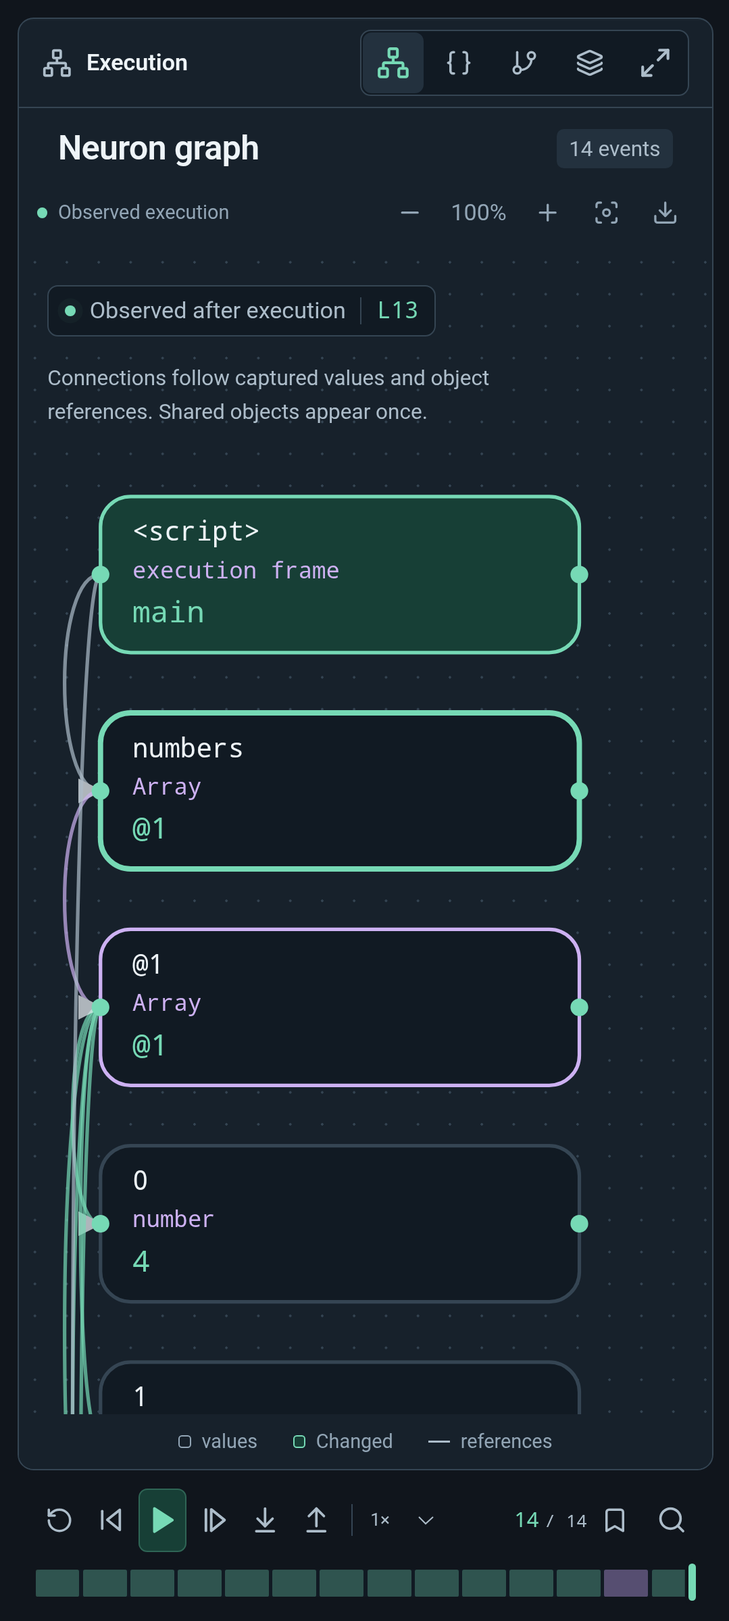
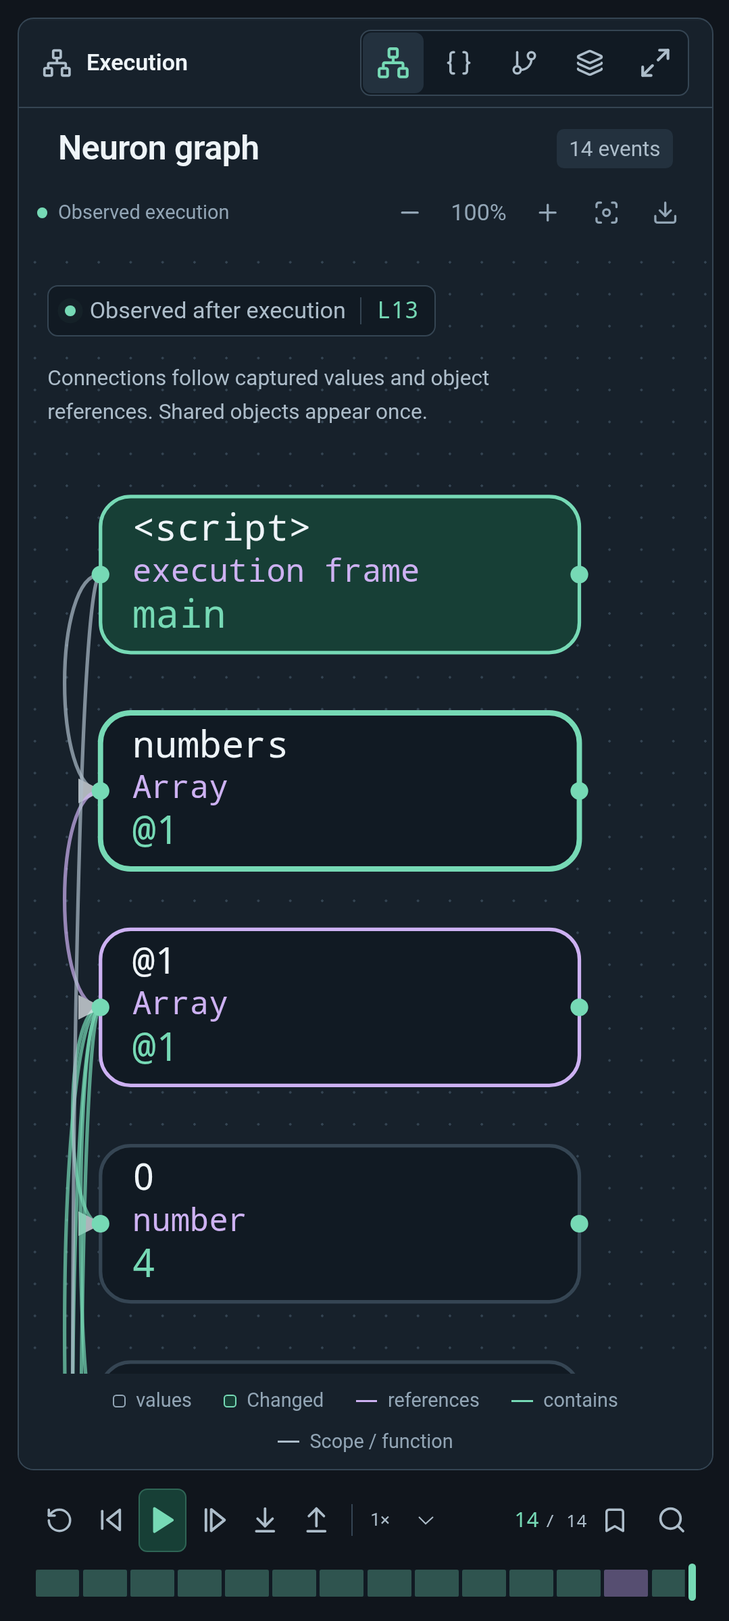
Improve diagram legibility and expose native aggregate fields

diff --git a/src/App.tsx b/src/App.tsx
@@ -32,7 +32,7 @@ export default function App(){
  const [selected,setSelected]=useState<{name:string;value:Value}|null>(null);const [pinned,setPinned]=useState(false);const [snapshot,setSnapshot]=useState(false);const [font,setFont]=useState(16);const [detail,setDetail]=useState(true);
  const [stdin,setStdin]=useState(initialProject?.config?.stdin||'');const [args,setArgs]=useState(JSON.stringify(initialProject?.config?.args||[]));const [profile,setProfile]=useState('x86-64');const [syntax,setSyntax]=useState('intel');const [mode,setMode]=useState('trace');const [build,setBuild]=useState('learn');
  const [runnerUrl,setRunnerUrl]=useState(stored('runnerUrl',''));const [token,setToken]=useState(()=>new URLSearchParams(location.hash.slice(1)).get('token')||sessionPreferences.getItem('token')||'');const [health,setHealth]=useState<{ok:boolean;trusted:boolean}|null>(null);
- const [breakpointCondition,setBreakpointCondition]=useState('');const [watch,setWatch]=useState('');const [breakpoints,setBreakpoints]=useState<number[]>([]);const [cursorLine,setCursorLine]=useState(1);const [bookmarks,setBookmarks]=useState<number[]>([]);const [search,setSearch]=useState('');const [fn,setFn]=useState('');const [thread,setThread]=useState('');
+ const [breakpointCondition,setBreakpointCondition]=useState(initialProject?.config?.breakpointCondition||'');const [watch,setWatch]=useState((initialProject?.config?.watch||[]).join(', '));const [breakpoints,setBreakpoints]=useState<number[]>(initialProject?.config?.breakpoints||[]);const [cursorLine,setCursorLine]=useState(1);const [bookmarks,setBookmarks]=useState<number[]>([]);const [search,setSearch]=useState('');const [fn,setFn]=useState('');const [thread,setThread]=useState('');
  const [elapsed,setElapsed]=useState(0);const [experiment,setExperiment]=useState<{n:number;ms:number;spread:number}[]>([]);const [experimentBusy,setExperimentBusy]=useState(false);
  const worker=useRef<Worker|null>(null);const iframe=useRef<HTMLIFrameElement>(null);const upload=useRef<HTMLInputElement>(null);const importFile=useRef<HTMLInputElement>(null);const runningId=useRef('');const generation=useRef(0);
  useEffect(()=>{loadSession().then(async saved=>{if(saved&&!traceRef.current&&!busyRef.current){await validateTrace(saved.trace);setTrace(saved.trace);setIndex(Math.min(saved.index,saved.trace.events.length-1));}}).catch(()=>{})},[]);
@@ -41,13 +41,14 @@ export default function App(){
  const local=['javascript','typescript','html','css'].includes(language);const isWeb=language==='html'||language==='css';const languageName=languages.find(l=>l.id===language)?.name||language;
  useEffect(()=>{document.documentElement.dataset.theme=theme;preferences.setItem('theme',theme)},[theme]);
  useEffect(()=>{document.documentElement.lang=locale;preferences.setItem('locale',locale)},[locale]);
- useEffect(()=>{const id=setTimeout(()=>{preferences.setItem('source',source);preferences.setItem('language',language);try{const project={schema:'tracescope-project/1',language,entry:entry||defaultFile(language),activeFile:activeFile||defaultFile(language),files:activeFile?{...files,[activeFile]:source}:{[defaultFile(language)]:source},config:{stdin,args:JSON.parse(args),env:JSON.parse(environment),mainClass}};preferences.setItem('tracescope-project',JSON.stringify(validateProject(project)))}catch{/* Incomplete JSON settings remain editable; explicit project export reports validation. */}},300);return()=>clearTimeout(id)},[source,language,files,entry,activeFile,stdin,args,environment,mainClass]);
+ useEffect(()=>{const id=setTimeout(()=>{preferences.setItem('source',source);preferences.setItem('language',language);try{const project={schema:'tracescope-project/1',language,entry:entry||defaultFile(language),activeFile:activeFile||defaultFile(language),files:activeFile?{...files,[activeFile]:source}:{[defaultFile(language)]:source},config:{stdin,args:JSON.parse(args),env:JSON.parse(environment),mainClass,breakpointCondition,watch:watch.split(',').map(s=>s.trim()).filter(Boolean),breakpoints}};preferences.setItem('tracescope-project',JSON.stringify(validateProject(project)))}catch{/* Incomplete JSON settings remain editable; explicit project export reports validation. */}},300);return()=>clearTimeout(id)},[source,language,files,entry,activeFile,stdin,args,environment,mainClass,breakpointCondition,watch,breakpoints]);
  useEffect(()=>{sessionPreferences.setItem('token',token);preferences.setItem('runnerUrl',runnerUrl);if(location.hash)history.replaceState(null,'',location.pathname+location.search);fetch((runnerUrl||'')+'/api/health').then(r=>r.json()).then(setHealth).catch(()=>setHealth(null))},[runnerUrl,token]);
  useEffect(()=>{if(!busy)return;const start=performance.now();const id=setInterval(()=>setElapsed((performance.now()-start)/1000),100);return()=>clearInterval(id)},[busy]);
  useEffect(()=>{if(!playing||!trace)return;const timer=setInterval(()=>setIndex(i=>{if(i>=trace.events.length-1){setPlaying(false);return i}const next=i+1;if(breakpoints.includes(trace.events[next].line))setPlaying(false);return next}),700/speed);return()=>clearInterval(timer)},[playing,speed,trace?.events.length,breakpoints]);
  useEffect(()=>{if(pinned||!event)return;const entry=Object.entries(event.delta.set).find(([name])=>!name.startsWith('__'))||Object.entries(event.values)[0];if(entry)setSelected({name:entry[0],value:entry[1]})},[index,trace?.runId]);
  async function api(path:string,data?:unknown){if(runnerUrl&&!runnerUrl.startsWith('https://')&&!/^http:\/\/(localhost|127\.0\.0\.1)(:|\/|$)/.test(runnerUrl))throw Error('Remote pairing requires HTTPS');const response=await fetch((runnerUrl||'')+path,{method:data===undefined?'GET':'POST',headers:{Authorization:'Bearer '+token,...(data===undefined?{}:{'Content-Type':'application/json'})},body:data===undefined?undefined:JSON.stringify(data)});const body=await response.json();if(!response.ok)throw Error(body.error||response.statusText);return body}
- function switchLanguage(next:Language){setFiles({});setActiveFile('');setEntry('');setLanguage(next);setSource(examples[next]);setBreakpoints([]);setSnapshot(false);setError('');setDialog('')}
+ function exportProject(){try{const project=validateProject({schema:'tracescope-project/1',language,entry:entry||activeFile,files:{...files,[activeFile]:source},config:{stdin,args:JSON.parse(args),env:JSON.parse(environment),mainClass,breakpointCondition,watch:watch.split(',').map(s=>s.trim()).filter(Boolean),breakpoints}});download('tracescope-project.json',JSON.stringify(project,null,2))}catch(error){setError(String(error))}}
+ function switchLanguage(next:Language){setFiles({});setActiveFile('');setEntry('');setLanguage(next);setSource(examples[next]);setBreakpoints([]);setBreakpointCondition('');setWatch('');setSnapshot(false);setError('');setDialog('')}
  function runWasm(text:string,lang:Language,input:string,benchmark:boolean,batch?:(t:Trace)=>void,projectFiles:Record<string,string>={},projectEntry=defaultFile(lang)):Promise<Trace>{return new Promise((resolve,reject)=>{const w=new Worker(new URL('./wasm/worker.ts',import.meta.url),{type:'module'});worker.current=w;w.onmessage=e=>{if(e.data.batch)batch?.(e.data.batch);else{w.terminate();worker.current=null;if(e.data.error)reject(Error(e.data.error));else resolve(e.data.trace)}};w.onerror=e=>{w.terminate();reject(Error(e.message))};w.postMessage({source:text,language:lang,stdin:input,benchmark,files:projectFiles,entry:projectEntry})})}
  async function run(){if(busy)return;if(!local&&!health?.ok){setError(t('runnerNeeded'));setDialog('settings');return;}const gen=++generation.current;setBusy(true);setPlaying(false);setError('');setIndex(0);setSelected(null);setSnapshot(false);setElapsed(0);setMobile('diagram');setBookmarks([]);
   try{let result:Trace;const runFiles={...files,...(activeFile?{[activeFile]:source}:{})};const runEntry=entry||activeFile||defaultFile(language);const runSource=runFiles[runEntry]??source;
@@ -76,7 +77,7 @@ export default function App(){
   <main className={'workbench mobile-'+mobile} style={{'--source-width':panelSizes.source+'%','--inspect-width':panelSizes.inspect+'%','--bottom-height':panelSizes.bottom+'px'} as React.CSSProperties}>
    <section className="source-panel panel"><div className="panel-resizer right" role="separator" aria-label={t('resize')} onPointerDown={e=>resizePanel('source',e)}/><div className="panel-header"><span><FileCode2 size={16}/>{t('source')}</span><div><button title={t('import')} onClick={()=>upload.current?.click()}><Upload size={15}/></button><button title={t('save')} onClick={()=>download((language==='java'||language==='kotlin'?'Main':'main')+'.'+(languages.find(l=>l.id===language)?.extension||'txt'),source,'text/plain')}><Download size={15}/></button></div></div>
     <div className="file-tabs"><div><Code2 size={15}/><span>{snapshot?(event?.file||trace?.filename):(activeFile||defaultFile(language))}</span>{stale&&<i/>}</div><select aria-label={t('language')} value={language} onChange={e=>switchLanguage(e.target.value as Language)}>{languages.map(l=><option key={l.id} value={l.id}>{l.name}</option>)}</select></div>
-    {!!Object.keys(files).length&&<div className="project-tabs">{Object.keys(files).map(name=><button key={name} className={name===activeFile?'active':''} onClick={()=>{setActiveFile(name);setSource(files[name]);setSnapshot(false)}}>{name}{name===entry?' ▶':''}</button>)}<button title={t('saveProject')} onClick={()=>download('tracescope-project.json',JSON.stringify({schema:'tracescope-project/1',language,entry:entry||activeFile,files,config:{stdin,args:JSON.parse(args),env:JSON.parse(environment),...(mainClass?{mainClass}:{})}},null,2))}><Download size={15}/></button></div>}
+    {!!Object.keys(files).length&&<div className="project-tabs">{Object.keys(files).map(name=><button key={name} className={name===activeFile?'active':''} onClick={()=>{setActiveFile(name);setSource(files[name]);setSnapshot(false)}}>{name}{name===entry?' ▶':''}</button>)}<button title={t('saveProject')} onClick={exportProject}><Download size={15}/></button></div>}
     {stale&&<div className="stale-note">{t('staleTrace')} · {trace?.language}</div>}{(stale||Object.keys(files).length>1)&&<button className="stale-banner" onClick={()=>setSnapshot(s=>!s)}><AlertCircle size={13}/>{snapshot?t('viewEditor'):t('viewSnapshot')}</button>}
     <Editor source={snapshot&&trace?(trace.sources?.[event?.file||trace.filename]??trace.source):source} language={fileLanguage(editorFile,snapshot&&trace?trace.language:language)} line={(stale&&!snapshot)||(!snapshot&&event?.file&&event.file!==(activeFile||defaultFile(language)))?0:event?.line||0} readonly={snapshot} onChange={s=>{if(!snapshot)setSource(s)}} onCursor={setCursorLine} breakpoints={breakpoints} onBreakpoint={n=>setBreakpoints(b=>b.includes(n)?b.filter(v=>v!==n):[...b,n])} font={font}/>
     <div className="editor-footer"><span>UTF-8</span><span>{cursorLine}:1</span><button onClick={()=>setDialog('settings')}>{t('stdin')} <b>{stdin.length?'●':'○'}</b></button></div>
@@ -105,7 +106,7 @@ export default function App(){
   </section>
   <footer className="status-bar"><button onClick={()=>setDialog('settings')}><span className={'status-dot '+(!health?'offline':'')}/>{health?(health.trusted?t('trusted'):t('locked')):t('offline')}</button><span>{event?event.kind+' · '+(event.phaseOverride==='after'||event.phase==='observed'?t('after'):t('before')):t('keyboard')}</span><span>TraceScope 0.2 <i>·</i> {t('notComplete')}</span></footer>
   <nav className="mobile-nav">{[ ['source',Code2,'mobileSource'],['diagram',Network,'mobileDiagram'],['inspect',PanelRight,'mobileInspect'],['output',Terminal,'mobileOutput']].map(([id,Icon,key])=>{const I=Icon as typeof Code2;return <button key={String(id)} className={mobile===id?'active':''} onClick={()=>setMobile(String(id))}><I size={20}/><span>{t(key as Key)}</span></button>})}</nav>
-  <input ref={upload} type="file" hidden multiple accept=".py,.js,.ts,.java,.kt,.c,.cpp,.h,.hpp,.rs,.html,.css,.s,.asm,.json" onChange={async e=>{try{const incoming=Array.from(e.target.files||[]);if(incoming.length>64||incoming.reduce((n,f)=>n+f.size,0)>1e6)throw Error('Project file quota');if(incoming.length===1&&incoming[0].name.endsWith('.json')){const project=validateProject(JSON.parse(await incoming[0].text()));setFiles(project.files);setEntry(project.entry);setActiveFile(project.entry);setLanguage(project.language);setSource(project.files[project.entry]);setStdin(project.config?.stdin||'');setArgs(JSON.stringify(project.config?.args||[]));setEnvironment(JSON.stringify(project.config?.env||{}));setMainClass(project.config?.mainClass||'');}else if(incoming.length){const items=Object.fromEntries(await Promise.all(incoming.map(async f=>[f.name,await f.text()])));const first=incoming.find(f=>/^(main|index)\./i.test(f.name))||incoming[0];const l=languages.find(l=>l.extension===first.name.split('.').pop());if(l)setLanguage(l.id);setFiles(items);setEntry(first.name);setActiveFile(first.name);setSource(items[first.name]);}setSnapshot(false)}catch(error){setError(String(error))}e.target.value=''}}/>
+  <input ref={upload} type="file" hidden multiple accept=".py,.js,.ts,.java,.kt,.c,.cpp,.h,.hpp,.rs,.html,.css,.s,.asm,.json" onChange={async e=>{try{const incoming=Array.from(e.target.files||[]);if(incoming.length>64||incoming.reduce((n,f)=>n+f.size,0)>1e6)throw Error('Project file quota');if(incoming.length===1&&incoming[0].name.endsWith('.json')){const project=validateProject(JSON.parse(await incoming[0].text()));setFiles(project.files);setEntry(project.entry);setActiveFile(project.entry);setLanguage(project.language);setSource(project.files[project.entry]);setStdin(project.config?.stdin||'');setArgs(JSON.stringify(project.config?.args||[]));setEnvironment(JSON.stringify(project.config?.env||{}));setMainClass(project.config?.mainClass||'');setBreakpointCondition(project.config?.breakpointCondition||'');setWatch((project.config?.watch||[]).join(', '));setBreakpoints(project.config?.breakpoints||[]);}else if(incoming.length){const items=Object.fromEntries(await Promise.all(incoming.map(async f=>[f.name,await f.text()])));const first=incoming.find(f=>/^(main|index)\./i.test(f.name))||incoming[0];const l=languages.find(l=>l.extension===first.name.split('.').pop());if(l)setLanguage(l.id);setFiles(items);setEntry(first.name);setActiveFile(first.name);setSource(items[first.name]);}setSnapshot(false)}catch(error){setError(String(error))}e.target.value=''}}/>
   <input ref={importFile} type="file" hidden accept=".json" onChange={async e=>{try{const file=e.target.files?.[0];if(file){if(file.size>24e6)throw Error('Trace file quota');const imported=await validateTrace(JSON.parse(await file.text()));setTrace(imported);setLanguage(imported.language);setFiles(imported.sources||{[imported.filename]:imported.source});setEntry(imported.filename);setActiveFile(imported.filename);setSource(imported.source);setIndex(0);setSnapshot(true);setPlaying(false)}}catch(error){setError(String(error))}e.target.value=''}}/>
   {dialog&&<div className="modal-backdrop" onClick={()=>setDialog('')}><section className={'modal '+(dialog==='capabilities'?'wide':'')} role="dialog" aria-modal="true" onClick={e=>e.stopPropagation()}><header><h2>{t(dialog==='examples'?'lessons':dialog==='capabilities'?'capabilities':dialog==='search'?'search':'settings')}</h2><button aria-label={t('close')} onClick={()=>setDialog('')}><X size={20}/></button></header><div className="modal-content">
    {dialog==='settings'?<><div className="settings-columns"><section><h3>{t('settings')}</h3><label>{t('build')}<select value={mode} onChange={e=>setMode(e.target.value)}><option value="trace">{t('learn')}</option><option value="benchmark">{t('benchmark')}</option></select></label><label>{t('profile')}<select value={profile} onChange={e=>{setProfile(e.target.value);if(language==='assembly')setSource(assemblyExamples[e.target.value])}}>{Object.keys(assemblyExamples).map(p=><option key={p}>{p}</option>)}</select></label><label>{t('syntax')}<select value={syntax} onChange={e=>setSyntax(e.target.value)}><option value="intel">Intel · destination, source</option><option value="att">AT&amp;T · source, destination</option></select></label><label>{t('build')}<select value={build} onChange={e=>setBuild(e.target.value)}><option value="learn">-O0 · {t('learn')}</option><option value="optimized">-O2 · {t('optimizedBuild')}</option></select></label><label>{t('font')}<input type="range" min="12" max="22" value={font} onChange={e=>setFont(Number(e.target.value))}/></label>{language==='python'&&<><label>{t('breakpointCondition')}<input value={breakpointCondition} onChange={e=>setBreakpointCondition(e.target.value)} placeholder="i >= 3"/></label><label>{t('watchVariables')}<input value={watch} onChange={e=>setWatch(e.target.value)} placeholder="total, result"/></label><p>{t('watchHelp')}</p></>}<label>{t('stdin')}<textarea value={stdin} onChange={e=>setStdin(e.target.value)} rows={3}/></label>{Object.keys(files).length>1&&<label>{t('entryFile')}<select value={entry||activeFile} onChange={e=>setEntry(e.target.value)}>{Object.keys(files).map(name=><option key={name}>{name}</option>)}</select></label>}<label>{t('environment')}<textarea value={environment} onChange={e=>setEnvironment(e.target.value)}/></label><label>{t('mainClass')}<input value={mainClass} onChange={e=>setMainClass(e.target.value)} placeholder="Main / MainKt"/></label><label>{t('args')}<input value={args} onChange={e=>setArgs(e.target.value)}/></label></section><section><h3><Link2 size={16}/>{t('runner')}</h3><p>{t('connectionHelp')}</p><label>{t('runnerUrl')}<input value={runnerUrl} placeholder="https://your-runner:7432" onChange={e=>setRunnerUrl(e.target.value.replace(/\/$/,''))}/></label><label>{t('token')}<input type="password" value={token} onChange={e=>setToken(e.target.value)} autoComplete="off"/></label><p className="notice">{t('breakpointHelp')}</p><p>{t('benchmarkNotice')}</p><button onClick={()=>{setSource(examples[language]);setDialog('')}}><RotateCcw size={14}/>{t('reset')}</button></section></div></>:

diff --git a/src/readability.css b/src/readability.css
@@ -1,5 +1,5 @@
 /* Large, stable execution canvas with controls shared by desktop and the web. */
-.app-header{height:58px}.session-bar{height:77px}.session-title h1{font-size:21px}.session-title p{font-size:12px}.boundary{font-size:12px}.app-header nav button,.session-controls>button{font-size:13px}.panel-header{height:48px}.panel-header>span{font-size:14px}.panel-header button{min-height:34px;min-width:34px}.diagram-title h2{font-size:20px}.diagram-title p,.diagram-tools,.event-counter,.diagram-caption{font-size:12px}.diagram-title{padding:16px 20px 12px}.diagram-tools button{width:36px;height:34px}.diagram-tools>div>span{font-size:13px;min-width:45px}.view-switch{gap:3px!important}.view-switch span{font-size:12px}.node-label>span{font-size:15px}.node-label small{font-size:12px}.node-value{font-size:25px;min-height:62px}.node-footer{font-size:11px}.object-card header{font-size:14px}.object-items button{min-width:78px;min-height:90px;padding:12px}.object-items button small,.object-items button em{font-size:12px}.object-items button strong{font-size:20px}.scope-heading{font-size:14px}.scope-heading span,.heap-divider small{font-size:11px}.selected-heading h3{font-size:21px}.inspector-body dl,.inspector-body dd{font-size:13px}.inspector-section h4{font-size:14px}.bottom-tabs button{font-size:13px}.file-tabs select,.file-tabs>div{font-size:13px}.file-tabs select{width:125px}.execution-badge{font-size:13px}.path-node{padding:16px;text-align:left}.path-node small{font-size:13px}.path-node code{font-size:15px}.console-output pre{font-size:15px}.status-label{font-size:12px}.transport{padding-top:10px}.playback-buttons button{width:35px;height:35px}.settings-columns label,.settings-columns p,.lesson-grid p{font-size:14px}.settings-columns input,.settings-columns textarea,.settings-columns select{padding:11px;font-size:15px}.modal{border-radius:18px}.modal h2{font-size:23px}.capability-table{font-size:13px}.panel{box-shadow:inset 0 1px 0 #ffffff04}.graph-explanation{font-size:13px;line-height:1.6;max-width:750px;color:var(--muted);margin:0 0 20px}.neuron-graph{display:block;overflow:visible}.neuron-edge{color:var(--muted)}.neuron-edge path{fill:none;stroke:currentColor;stroke-width:2;opacity:.7}.neuron-edge.references{color:var(--purple)}.neuron-edge.contains{color:var(--accent)}.neuron-edge text{fill:currentColor;font-size:11px;text-anchor:middle;paint-order:stroke;stroke:var(--panel);stroke-width:5px;stroke-linejoin:round}.neuron-node{cursor:pointer;outline:none}.neuron-node rect{fill:var(--panel-deep);stroke:var(--border);stroke-width:2}.neuron-node circle{fill:var(--accent)}.neuron-node.object rect{stroke:var(--purple)}.neuron-node.scope rect{fill:var(--accent-deep);stroke:var(--accent)}.neuron-node.changed rect{stroke:var(--accent);stroke-width:3}.neuron-node:hover rect,.neuron-node:focus-visible rect{stroke:var(--text);stroke-width:3}.neuron-node text{pointer-events:none;font-family:'Cascadia Code',Consolas,monospace}.graph-name{fill:var(--text);font-size:15px;font-weight:600}.graph-type{fill:var(--purple);font-size:13px}.graph-value{fill:var(--accent);font-size:17px}.diagram-scroll{scrollbar-width:thin;scrollbar-color:var(--muted) var(--panel-deep)}
+.app-header{height:58px}.session-bar{height:77px}.session-title h1{font-size:21px}.session-title p{font-size:12px}.boundary{font-size:12px}.app-header nav button,.session-controls>button{font-size:13px}.panel-header{height:48px}.panel-header>span{font-size:14px}.panel-header button{min-height:34px;min-width:34px}.diagram-title h2{font-size:20px}.diagram-title p,.diagram-tools,.event-counter,.diagram-caption{font-size:12px}.diagram-title{padding:16px 20px 12px}.diagram-tools button{width:36px;height:34px}.diagram-tools>div>span{font-size:13px;min-width:45px}.view-switch{gap:3px!important}.view-switch span{font-size:12px}.node-label>span{font-size:15px}.node-label small{font-size:12px}.node-value{font-size:25px;min-height:62px}.node-footer{font-size:11px}.object-card header{font-size:14px}.object-items button{min-width:78px;min-height:90px;padding:12px}.object-items button small,.object-items button em{font-size:12px}.object-items button strong{font-size:20px}.scope-heading{font-size:14px}.scope-heading span,.heap-divider small{font-size:11px}.selected-heading h3{font-size:21px}.inspector-body dl,.inspector-body dd{font-size:13px}.inspector-section h4{font-size:14px}.bottom-tabs button{font-size:13px}.file-tabs select,.file-tabs>div{font-size:13px}.file-tabs select{width:125px}.execution-badge{font-size:13px}.path-node{padding:16px;text-align:left}.path-node small{font-size:13px}.path-node code{font-size:15px}.console-output pre{font-size:15px}.status-label{font-size:12px}.transport{padding-top:10px}.playback-buttons button{width:35px;height:35px}.settings-columns label,.settings-columns p,.lesson-grid p{font-size:14px}.settings-columns input,.settings-columns textarea,.settings-columns select{padding:11px;font-size:15px}.modal{border-radius:18px}.modal h2{font-size:23px}.capability-table{font-size:13px}.panel{box-shadow:inset 0 1px 0 #ffffff04}.graph-explanation{font-size:13px;line-height:1.6;max-width:750px;color:var(--muted);margin:0 0 20px}.neuron-graph{display:block;overflow:visible}.neuron-edge{color:var(--muted)}.neuron-edge path{fill:none;stroke:currentColor;stroke-width:2;opacity:.7}.neuron-edge.references{color:var(--purple)}.neuron-edge.contains{color:var(--accent)}.neuron-edge text{fill:currentColor;font-size:14px;text-anchor:middle;paint-order:stroke;stroke:var(--panel);stroke-width:5px;stroke-linejoin:round}.neuron-node{cursor:pointer;outline:none}.neuron-node rect{fill:var(--panel-deep);stroke:var(--border);stroke-width:2}.neuron-node circle{fill:var(--accent)}.neuron-node.object rect{stroke:var(--purple)}.neuron-node.scope rect{fill:var(--accent-deep);stroke:var(--accent)}.neuron-node.changed rect{stroke:var(--accent);stroke-width:3}.neuron-node:hover rect,.neuron-node:focus-visible rect{stroke:var(--text);stroke-width:3}.neuron-node text{pointer-events:none;font-family:'Cascadia Code',Consolas,monospace}.graph-name{fill:var(--text);font-size:21px;font-weight:600}.graph-type{fill:var(--purple);font-size:18px}.graph-value{fill:var(--accent);font-size:22px}.diagram-scroll{scrollbar-width:thin;scrollbar-color:var(--muted) var(--panel-deep)}
 .diagram-fullscreen .app-header,.diagram-fullscreen .session-bar,.diagram-fullscreen .boundary,.diagram-fullscreen .status-bar,.diagram-fullscreen .mobile-nav{display:none}.diagram-fullscreen .workbench{display:flex!important;margin:10px 10px 0;min-height:0}.diagram-fullscreen .workbench>.panel{display:none!important}.diagram-fullscreen .workbench>.visual-panel{display:flex!important;flex:1}.diagram-fullscreen .diagram-title{padding:12px 22px 8px}.diagram-fullscreen .diagram-content{padding:20px 30px}.diagram-fullscreen .transport{margin:0 12px;padding:10px 8px 14px}.diagram-fullscreen .diagram-caption{padding:9px}.diagram-fullscreen .visual-panel .panel-header{height:50px}.diagram-fullscreen .web-preview{max-height:25vh}.diagram-fullscreen .position>span{display:inline}.diagram-fullscreen .transport-right{display:flex}.diagram-fullscreen .graph-explanation{max-width:1000px}
 @media(max-width:1150px){.view-switch span{display:none}.diagram-title h2{font-size:18px}.node-label>span{font-size:14px}.node-label small{font-size:11px}.diagram-title p{font-size:11px}}
 @media(max-width:680px){.session-title h1{font-size:16px}.session-title p{font-size:10px}.boundary{font-size:11px}.session-bar{height:66px}.app-header{height:52px}.panel-header>span{font-size:13px}.diagram-title{padding:12px 15px}.diagram-title h2{font-size:19px}.diagram-content{padding:16px}.graph-explanation{width:310px;font-size:12px}.diagram-tools{font-size:11px;padding:0 10px 8px}.diagram-tools button{width:33px;min-width:33px}.diagram-caption{font-size:11px}.transport .playback-buttons button{width:27px}.diagram-fullscreen .transport .position>span{display:none}.diagram-fullscreen .diagram-content{padding:16px}.view-switch span{display:none}.bottom-tabs button{font-size:10px}.session-controls>.run-button{font-size:12px}.modal-content{padding:18px}}
@@ -8,3 +8,5 @@
 
 .project-tabs{display:flex;flex-wrap:wrap;gap:4px;padding:6px 9px;border-bottom:1px solid var(--border);max-height:110px;overflow:auto}.project-tabs button{font-size:12px;border:1px solid transparent}.project-tabs .active{border-color:var(--accent);color:var(--accent);background:var(--accent-deep)}
 .startup-error{margin:8vh auto;padding:32px;max-width:720px;border:1px solid #36534b;border-radius:16px;background:#14251f;color:#e0eee8;font:16px/1.6 system-ui}.startup-error pre{white-space:pre-wrap;color:#ffbdad}.startup-error button{padding:10px 22px;border-radius:8px;background:#74ddbb;color:#10251d;border:0;font:inherit}
+
+.diagram-caption{flex-wrap:wrap;gap:10px 18px}.legend-line.reference{background:var(--purple)}.legend-line.contains{background:var(--accent)}

diff --git a/src/NeuronGraph.tsx b/src/NeuronGraph.tsx
@@ -3,14 +3,15 @@ import {observationGraph} from './graph';
 import type {TraceEvent,Value} from './model';
 import type {Key} from './i18n';
 export function NeuronGraph({event,onSelect,t}:{event:TraceEvent;onSelect:(name:string,value:Value)=>void;t:(key:Key)=>string}){
+ const short=(value:string,max:number)=>value.length>max?value.slice(0,max-1)+'…':value;
  const [compact,setCompact]=useState(()=>matchMedia('(max-width:680px)').matches);
  useEffect(()=>{const media=matchMedia('(max-width:680px)');const change=()=>setCompact(media.matches);media.addEventListener('change',change);return()=>media.removeEventListener('change',change)},[]);
  const graph=useMemo(()=>{const data=observationGraph(event);if(compact){data.nodes=data.nodes.map((n,i)=>({...n,x:30,y:30+i*122}));data.width=330;data.height=data.nodes.length*122+40}return data},[event,compact]);const byId=new Map(graph.nodes.map(n=>[n.id,n]));
  return <><p className="graph-explanation">{t('neuronHelp')}</p><svg className="neuron-graph" width={graph.width} height={graph.height} role="group" aria-label={t('neuron')}>
   <defs><marker id="graph-arrow" viewBox="0 0 10 10" refX="9" refY="5" markerWidth="7" markerHeight="7" orient="auto-start-reverse"><path d="M0 0 L10 5 L0 10Z" fill="currentColor"/></marker></defs>
-  {graph.edges.map((edge,i)=>{const a=byId.get(edge.from)!,b=byId.get(edge.to)!;const x1=a.x+270,y1=a.y+44,x2=b.x,y2=b.y+44;const same=a.id===b.id;return <g key={i} className={'neuron-edge '+edge.relation}><title>{a.name+' '+t(edge.relation)+' '+b.name}</title><path d={compact?`M${a.x} ${y1} C${3+i%3*6} ${y1},${3+i%3*6} ${y2},${b.x} ${y2}`:same?`M${x1} ${y1} c80 -100 -350 -100 -270 0`:`M${x1} ${y1} C${x1+55} ${y1},${x2-55} ${y2},${x2} ${y2}`} markerEnd="url(#graph-arrow)"/>{!compact&&<text x={same?a.x+110:(x1+x2)/2} y={same?a.y-14:(y1+y2)/2-9}>{t(edge.relation)}</text>}</g>})}
+  {graph.edges.map((edge,i)=>{const a=byId.get(edge.from)!,b=byId.get(edge.to)!;const x1=a.x+270,y1=a.y+44,x2=b.x,y2=b.y+44;const same=a.id===b.id;return <g key={i} className={'neuron-edge '+edge.relation}><title>{a.name+' '+t(edge.relation)+' '+b.name}</title><path d={compact?`M${a.x} ${y1} C${3+i%3*6} ${y1},${3+i%3*6} ${y2},${b.x} ${y2}`:same?`M${x1} ${y1} c80 -100 -350 -100 -270 0`:`M${x1} ${y1} C${x1+55} ${y1},${x2-55} ${y2},${x2} ${y2}`} markerEnd="url(#graph-arrow)"/>{!compact&&same&&<text x={same?a.x+110:(x1+x2)/2} y={same?a.y-14:(y1+y2)/2-9}>{t(edge.relation)}</text>}</g>})}
   {graph.nodes.map(node=><g key={node.id} className={'neuron-node '+node.kind+(node.changed?' changed':'')} transform={`translate(${node.x},${node.y})`} role="button" tabIndex={0} aria-label={`${node.name}: ${node.value.type}, ${node.value.value}`} onClick={()=>onSelect(node.name.replace(/^value:/,''),node.value)} onKeyDown={e=>{if(e.key==='Enter'||e.key===' '){e.preventDefault();onSelect(node.name,node.value)}}}>
-   <rect width="270" height="88" rx="17"/><circle cx="0" cy="44" r="5"/><circle cx="270" cy="44" r="5"/><text x="18" y="25" className="graph-name">{node.name.slice(0,28)}</text><text x="18" y="46" className="graph-type">{node.value.type.slice(0,36)}</text><text x="18" y="71" className="graph-value">{node.value.value.slice(0,28)}</text><title>{node.name+' : '+node.value.type+'\n'+node.value.value}</title>
+   <rect width="270" height="88" rx="17"/><circle cx="0" cy="44" r="5"/><circle cx="270" cy="44" r="5"/><text x="18" y="25" className="graph-name">{short(node.name,18)}</text><text x="18" y="48" className="graph-type">{short(node.value.type,21)}</text><text x="18" y="74" className="graph-value">{short(node.value.value,17)}</text><title>{node.name+' : '+node.value.type+'\n'+node.value.value}</title>
   </g>)}
  </svg>{graph.omitted>0&&<p role="status">{t('graphLimit')} {graph.omitted}</p>}</>;
 }

diff --git a/src/project.ts b/src/project.ts
@@ -1,6 +1,6 @@
 import type {Language} from './model';
 import {preferences} from './preferences';
-export interface Project {schema:'tracescope-project/1';language:Language;entry:string;files:Record<string,string>;activeFile?:string;config?:{stdin?:string;args?:string[];env?:Record<string,string>;mainClass?:string}}
+export interface Project {schema:'tracescope-project/1';language:Language;entry:string;files:Record<string,string>;activeFile?:string;config?:{stdin?:string;args?:string[];env?:Record<string,string>;mainClass?:string;breakpointCondition?:string;watch?:string[];breakpoints?:number[]}}
 const extensions:Record<string,Language>={py:'python',js:'javascript',mjs:'javascript',ts:'typescript',java:'java',kt:'kotlin',c:'c',h:'c',cpp:'cpp',cc:'cpp',cxx:'cpp',hpp:'cpp',rs:'rust',html:'html',css:'css',s:'assembly',asm:'assembly'};
 export function fileLanguage(name:string,fallback:Language):Language{return extensions[name.split('.').pop()?.toLowerCase()||'']||fallback}
 export function validateProject(value:unknown):Project{
@@ -10,6 +10,9 @@ export function validateProject(value:unknown):Project{
  for(const [name,source]of entries){if(!name||name.startsWith('/')||/[\\:\0]/.test(name)||name.split('/').some(part=>!part||['.','..','.git'].includes(part)||part.startsWith('.env'))||typeof source!=='string')throw Error('Invalid project path or source');const length=new TextEncoder().encode(source).length;bytes+=length;if(length>100000)throw Error('Each source file must be at most 100 KB')}
  if(bytes>1000000)throw Error('Project exceeds 1 MB');if(!Object.hasOwn(p.files,p.entry))throw Error('Project entry file is missing');
  if(p.config){if(typeof p.config!=='object'||(p.config.stdin!==undefined&&typeof p.config.stdin!=='string')||(p.config.mainClass!==undefined&&typeof p.config.mainClass!=='string')||(p.config.args!==undefined&&(!Array.isArray(p.config.args)||p.config.args.some(v=>typeof v!=='string')))||(p.config.env!==undefined&&(!p.config.env||Array.isArray(p.config.env)||typeof p.config.env!=='object'||Object.entries(p.config.env).some(([k,v])=>!k||typeof v!=='string'))))throw Error('Invalid project run configuration')}
+ if(p.config?.breakpointCondition!==undefined&&typeof p.config.breakpointCondition!=='string')throw Error('Invalid breakpoint condition');
+ if(p.config?.watch!==undefined&&(!Array.isArray(p.config.watch)||p.config.watch.some(v=>typeof v!=='string')))throw Error('Invalid watch names');
+ if(p.config?.breakpoints!==undefined&&(!Array.isArray(p.config.breakpoints)||p.config.breakpoints.some(v=>!Number.isInteger(v)||v<1)))throw Error('Invalid breakpoints');
  return p;
 }
 export function loadProject():Project|null{try{return validateProject(JSON.parse(preferences.getItem('tracescope-project')||'null'))}catch{return null}}

diff --git a/src/graph.ts b/src/graph.ts
@@ -6,14 +6,17 @@ export function observationGraph(event:TraceEvent,limit=100){
  const columns=[0,0,0,0];
  function add(id:string,name:string,value:Value,column:number,kind:GraphNode['kind'],changed=false){if(nodes.length>=limit){omitted++;return null}const node={id,name,value,x:45+column*330,y:45+columns[column]++*122,kind,changed};nodes.push(node);return node}
  const scope=add('scope',event.function,{type:'execution frame',value:event.frame,state:'available'},0,'scope');
+ function children(parent:GraphNode,value:Value,column:number){
+  for(const [key,child]of Object.entries(value.children||{})){
+   if(child.identity){const target=object(child,column);if(target)edges.push({from:parent.id,to:target.id,relation:'references'})}
+   else{const target=add(parent.id+'.'+key,key,child,Math.min(3,column),'value');if(target){edges.push({from:parent.id,to:target.id,relation:'contains'});if(child.children)children(target,child,column+1)}}
+  }
+ }
  function object(v:Value,depth:number):GraphNode|null{
   if(!v.identity)return null;let node=objects.get(v.identity);
   if(!node){node=add('object:'+v.identity,'@'+v.identity,v,Math.min(3,depth),'object')||undefined;if(!node)return null;objects.set(v.identity,node)}
-  if(v.children&&!expanded.has(v.identity)){expanded.add(v.identity);node.value=v;for(const [key,child]of Object.entries(v.children)){
-   if(child.identity){const target=object(child,depth+1);if(target)edges.push({from:node.id,to:target.id,relation:'references'})}
-   else{const target=add(node.id+'.'+key,key,child,Math.min(3,depth+1),'value');if(target)edges.push({from:node.id,to:target.id,relation:'contains'})}
-  }}return node;
+  if(v.children&&!expanded.has(v.identity)){expanded.add(v.identity);node.value=v;children(node,v,depth+1)}return node;
  }
- for(const [name,value]of Object.entries(event.values).filter(([,v])=>v.type!=='function')){const node=add('value:'+name,name,value,1,'value',!!event.delta.set[name]);if(!node)continue;if(scope)edges.push({from:scope.id,to:node.id,relation:'scope'});const target=object(value,2);if(target)edges.push({from:node.id,to:target.id,relation:'references'})}
+ for(const [name,value]of Object.entries(event.values).filter(([,v])=>v.type!=='function')){const node=add('value:'+name,name,value,1,'value',!!event.delta.set[name]);if(!node)continue;if(scope)edges.push({from:scope.id,to:node.id,relation:'scope'});const target=object(value,2);if(target)edges.push({from:node.id,to:target.id,relation:'references'});else if(value.children)children(node,value,2)}
  return {nodes,edges,omitted,width:Math.max(760,...nodes.map(n=>n.x+300)),height:Math.max(400,...nodes.map(n=>n.y+110))};
 }

diff --git a/tests/graph.test.ts b/tests/graph.test.ts
@@ -7,3 +7,8 @@ test('network graph preserves identities, cycles, types and visible budgets',()=
  const event={function:'main',frame:'f1',values:{a:object,b:{type:'list',value:'@42',identity:'42',state:'available'}},delta:{set:{a:object},remove:[]}} as unknown as TraceEvent;
  const graph=observationGraph(event);assert.equal(graph.nodes.filter(n=>n.id==='object:42').length,1);assert.equal(graph.edges.filter(e=>e.to==='object:42').length,3);assert.ok(graph.nodes.every(n=>n.value.type));assert.ok(observationGraph(event,2).omitted>0);
 });
+test('native aggregate fields expand without inventing object identities',()=>{
+ const pair:Value={type:'Pair',value:'{2 fields}',state:'available',children:{public:{type:'C++ access group',value:'{2 fields}',state:'available',children:{right:{type:'int',value:'21',state:'available'}}}}};
+ const event={function:'main',frame:'f1',values:{pair},delta:{set:{pair},remove:[]}} as unknown as TraceEvent;
+ const graph=observationGraph(event);assert.ok(graph.nodes.some(n=>n.name==='right'&&n.value.value==='21'));assert.equal(graph.nodes.filter(n=>n.kind==='object').length,0);assert.equal(graph.edges.filter(e=>e.relation==='contains').length,2);
+});

diff --git a/src/Diagram.tsx b/src/Diagram.tsx
@@ -28,6 +28,6 @@ const values=Object.entries(event?.values||{}).filter(([,v])=>v.type!=='function
     </>}
   </div>}
   </div>
-  <div className="diagram-caption"><span><span className="legend-box"/>{t('values')}</span><span><span className="legend-box change"/>{t('changed')}</span><span><span className="legend-line"/>{t('references')}</span></div>
+  <div className="diagram-caption"><span><span className="legend-box"/>{t('values')}</span><span><span className="legend-box change"/>{t('changed')}</span><span><span className={'legend-line '+(view==='neuron'?'reference':'')}/>{t('references')}</span>{view==='neuron'&&<><span><span className="legend-line contains"/>{t('contains')}</span><span><span className="legend-line"/>{t('scope')}</span></>}</div>
  </div>
 }

diff --git a/scripts/package-artifacts.py b/scripts/package-artifacts.py
@@ -1,5 +1,5 @@
 """Archive distributable files, excluding local sessions and build caches."""
-import hashlib, json, runpy, zipfile
+import hashlib, json, runpy, zipfile, subprocess
 from pathlib import Path
 root=Path(__file__).resolve().parent.parent
 runpy.run_path(str(root/'scripts/package-source.py'))
@@ -11,11 +11,15 @@ with zipfile.ZipFile(out,'w',zipfile.ZIP_DEFLATED,compresslevel=6) as archive:
         if path.is_file() and not set(relative.parts).intersection({'.runs','.cache','__pycache__'}):
             archive.write(path,Path('TraceScope-Windows')/relative)
 results=[]
-for name in ('TraceScope-Windows.zip','TraceScope-debug.apk','TraceScope-source.zip'):
+names=['TraceScope-Windows.zip','TraceScope-debug.apk','TraceScope-source.zip']
+names+=sorted(p.name for p in (root/'packages').iterdir() if p.is_file() and (p.suffix in ('.rpm','.deb') or p.name.endswith('.tar.gz')))
+for name in names:
     path=root/'packages'/name
     digest=hashlib.sha256()
     with path.open('rb') as stream:
         for chunk in iter(lambda:stream.read(1024*1024),b''):digest.update(chunk)
     results.append({'file':name,'bytes':path.stat().st_size,'sha256':digest.hexdigest()})
 (root/'packages/artifacts.json').write_text(json.dumps(results,indent=2))
+(root/'packages/SHA256SUMS').write_text(''.join(item['sha256']+'  '+item['file']+'\n' for item in results))
+(root/'packages/release-manifest.json').write_text(json.dumps({'sourceCommit':subprocess.check_output(['git','rev-parse','HEAD'],cwd=root,text=True).strip(),'artifacts':results},indent=2))
 print(json.dumps(results,indent=2))

diff --git a/docs/DELIVERY.md b/docs/DELIVERY.md
@@ -24,7 +24,7 @@ The repository and WebUI were published with the user's explicit approval. Local
 
 ## Verification evidence
 
-The local backend release suite has **35 passing tests**, including all eight ISA profiles, changed inputs, compile failures, exact values, cycles/getter traps, six native multi-file language paths, native aggregate fields, HTTPS-origin/auth checks and Python live conditions/watches. Eight Node test groups cover real QuickJS execution, TypeScript diagnostics, modules, replay, graph invariants, project validation, locale keys and empirical-fit behavior.
+The local backend release suite has **35 passing tests**, including all eight ISA profiles, changed inputs, compile failures, exact values, cycles/getter traps, six native multi-file language paths, native aggregate fields, HTTPS-origin/auth checks and Python live conditions/watches. Nine Node test groups cover real QuickJS execution, TypeScript diagnostics, modules, replay, graph invariants, project validation, locale keys and empirical-fit behavior.
 
 Browser interaction tests exercise the Pages subdirectory layout, actual neuron edges, fullscreen/fit, TypeScript library types, multi-file trace export and helper-file replay, project persistence, stale-helper detection, HTML/CSS rendering, Vietnamese phone layout and disabled browser storage. They capture actual screenshots, not mockups.
 
